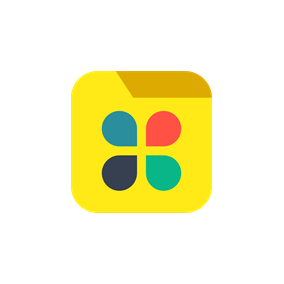
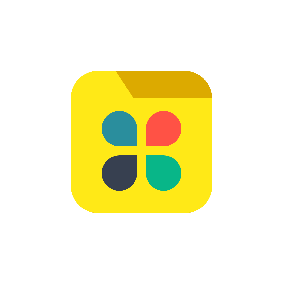
Push to main (#10)
* add AppCenter integration

* update readme

* fix image assets

* build packaging project instead of solution

diff --git a/JumpPoint/JumpPoint.Uwp/App.xaml.cs b/JumpPoint/JumpPoint.Uwp/App.xaml.cs
@@ -13,6 +13,10 @@ using JumpPoint.Platform.Models;
 using JumpPoint.Platform.Models.Extensions;
 using JumpPoint.Platform.Services;
 using JumpPoint.Uwp.Helpers;
+using Microsoft.AppCenter;
+using Microsoft.AppCenter.Analytics;
+using Microsoft.AppCenter.Crashes;
+using Microsoft.Extensions.Configuration;
 using Newtonsoft.Json;
 using NittyGritty;
 using NittyGritty.Models;
@@ -52,6 +56,20 @@ namespace JumpPoint.Uwp
             UnhandledException += OnUnhandledException;
 
             SQLitePCL.Batteries_V2.Init();
+
+            SetupAppCenter();
+        }
+
+        private void SetupAppCenter()
+        {
+            var config = new ConfigurationBuilder()
+                .AddJsonFile("appcenter.jps.json", optional: true)
+                .Build();
+#if BETA
+            AppCenter.Start(config["betaKey"], typeof(Analytics), typeof(Crashes));
+#else
+            AppCenter.Start(config["mainKey"], typeof(Analytics), typeof(Crashes));
+#endif
         }
 
         private void OnUnhandledException(object sender, Windows.UI.Xaml.UnhandledExceptionEventArgs e)

diff --git a/README.md b/README.md
@@ -20,10 +20,8 @@ You can contribute by submitting:
 + [Feature requests](https://github.com/MarkIvanDev/JumpPoint/issues/new?assignees=&labels=enhancement&template=feature_request.md&title=PROPOSAL%3A+%5BInsert+title+here%5D)
 + [Questions](https://github.com/MarkIvanDev/JumpPoint/issues/new?assignees=&labels=question&template=question.md&title=QUESTION%3A+%5BInsert+question+here%5D)
 
-In the future, this repo will include code and contributions will be greatly appreciated when that time comes.
-
-### Roadmap
-You can view the roadmap through the repo's [milestones](https://github.com/MarkIvanDev/JumpPoint/milestones).
+### Documentation
+You can view the documentation [here](https://github.com/MarkIvanDev/JumpPoint/wiki)
 
 ### License
 This is licensed under the MIT License
